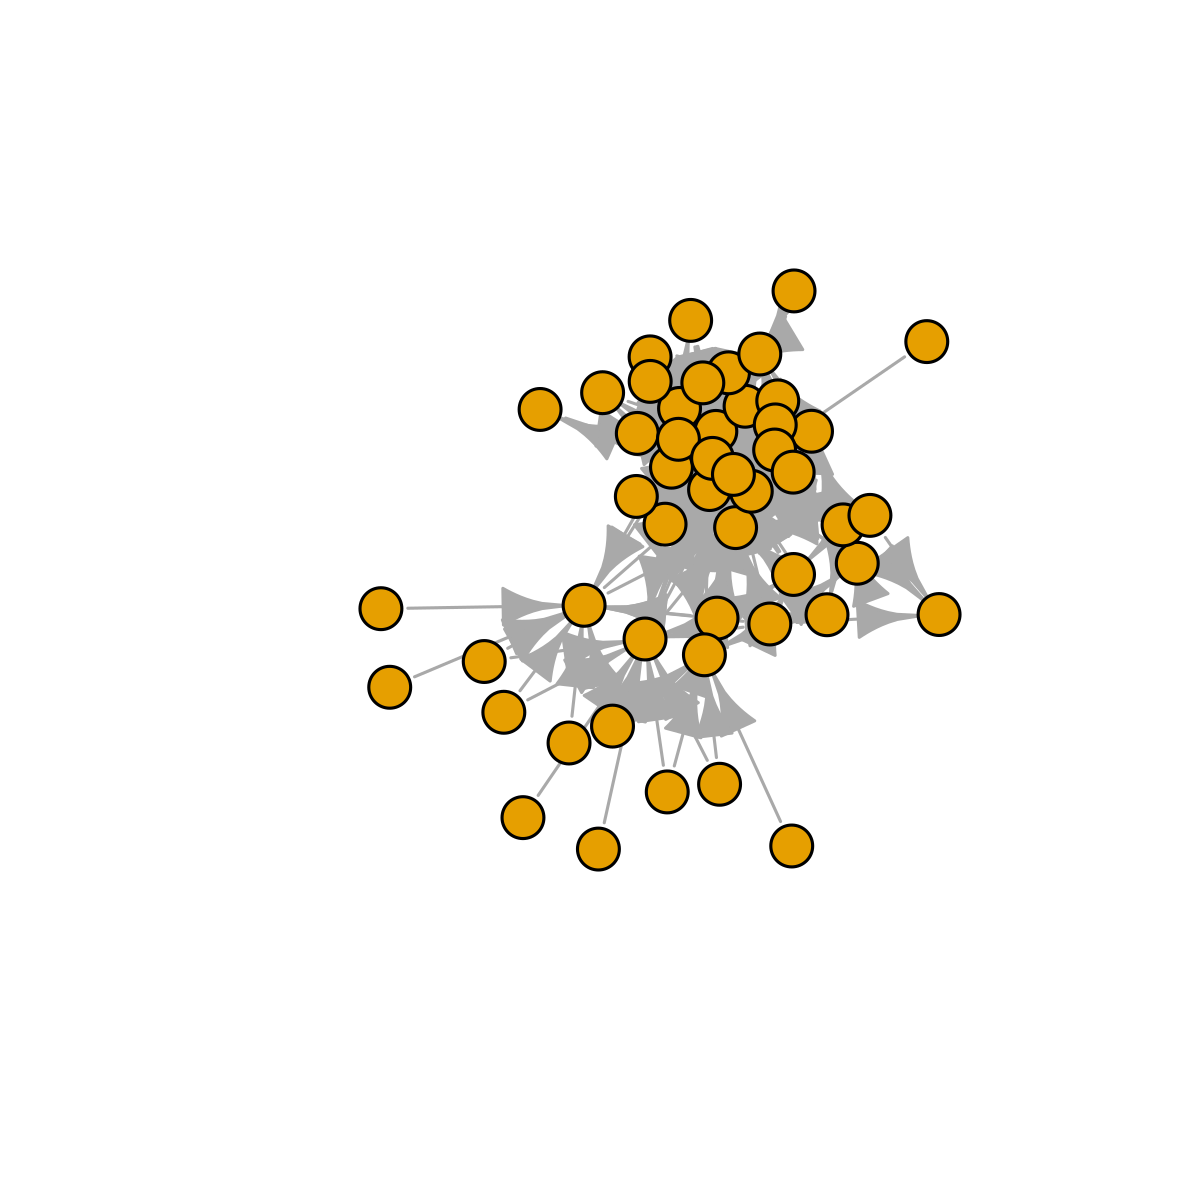
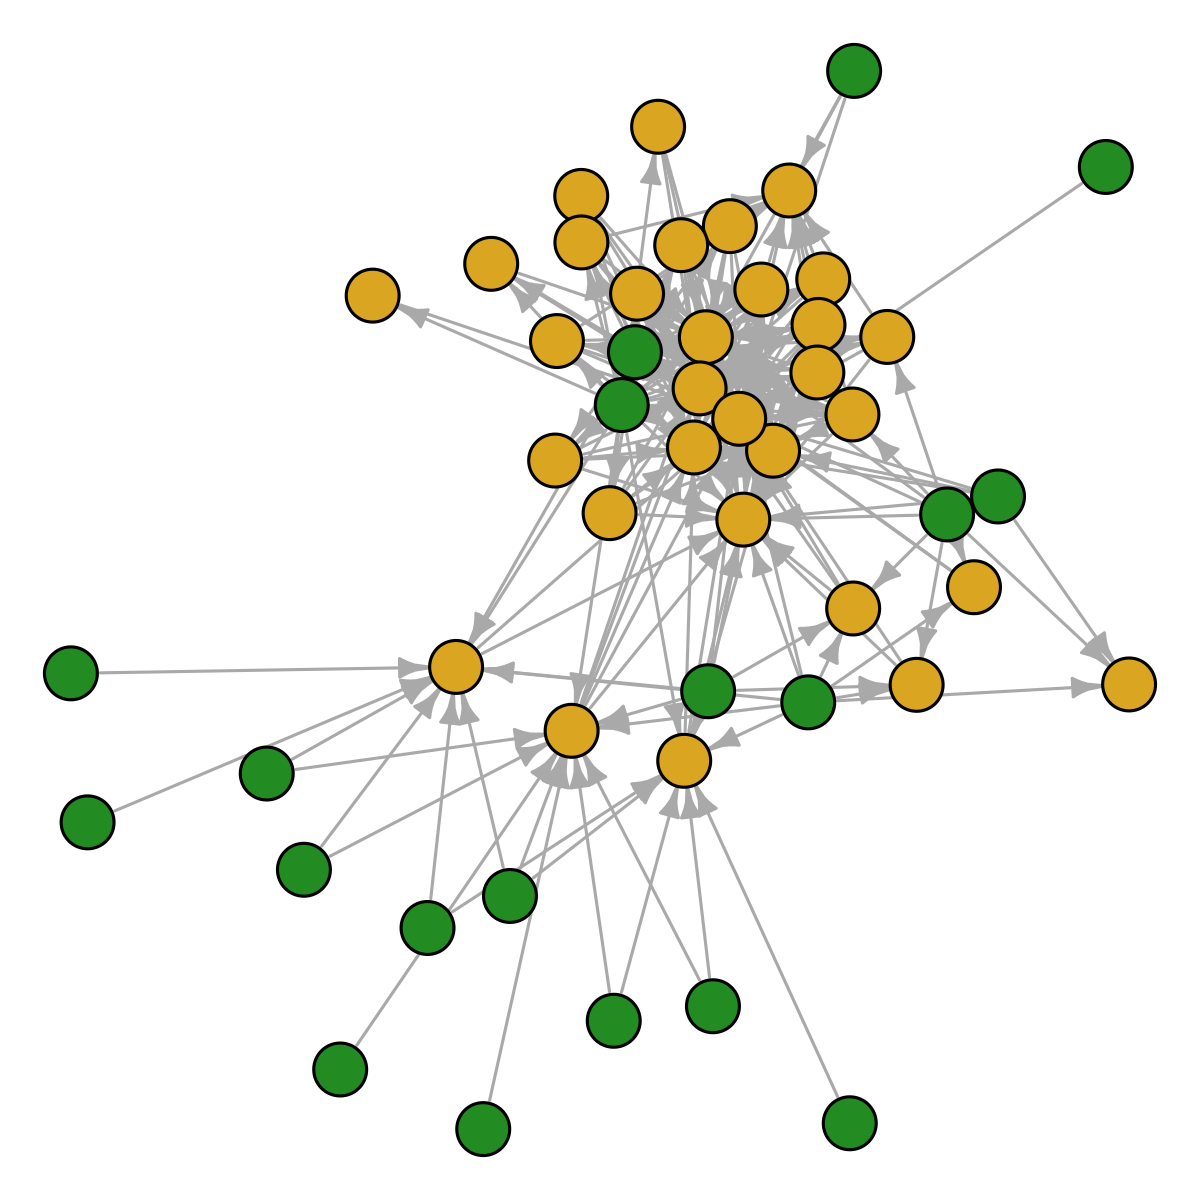
add show_graph

diff --git a/README.md b/README.md
@@ -29,7 +29,7 @@ Loading the required libraries and set a random seed:
 
 ``` r
 library(assembly)
-library(igraph)
+#> Loading required package: igraph
 #> 
 #> Attaching package: 'igraph'
 #> The following objects are masked from 'package:stats':
@@ -38,6 +38,7 @@ library(igraph)
 #> The following object is masked from 'package:base':
 #> 
 #>     union
+library(igraph)
 
 set.seed(1234)
 ```
@@ -61,9 +62,9 @@ To draw a random community, use the function `draw_random_species()`:
 
 ``` r
 sp <- draw_random_species(S, colnames(adirondack))
-sum(colSums(adirondack[sp, sp]) == 0) #20 basal speciesshow_fw(sp, adirondack, title = "Random")
+sum(colSums(adirondack[sp, sp]) == 0)
 #> [1] 20
-plot(graph_from_adjacency_matrix(adirondack[sp, sp]), vertex.label = NA)
+show_graph(sp, adirondack)
 ```
 
 <img src="man/figures/README-random-1.png" width="50%" style="display: block; margin: auto;" />
@@ -170,8 +171,7 @@ show_fw(sp_resource, adirondack, title = "Resource filtering")
 <img src="man/figures/README-resource-1.png" width="50%" style="display: block; margin: auto;" />
 
 ``` r
-plot(graph_from_adjacency_matrix(adirondack[sp_resource, sp_resource]),
-     vertex.label = NA)
+show_graph(sp_resource, adirondack)
 ```
 
 <img src="man/figures/README-resource-2.png" width="50%" style="display: block; margin: auto;" />
@@ -229,7 +229,19 @@ assembly:::.move(sp_resource, adirondack, t = 1)
 
 ## Limiting similarity filtering
 
-**To come**
+**To come**: a description of the procedure.
+
+To impose the limiting similariy filtering, call the function
+`similarity_filtering()`. This function has the argument *t*, which is
+the temperature of the Metropolis-Hastings algorithm, and *max.iter*
+(default = 1,000), which is the maximum number of moves allowed.
+
+``` r
+sp_sim <- similarity_filtering(sp_resource, adirondack, t = 1)
+show_graph(sp_sim, adirondack)
+```
+
+<img src="man/figures/README-limiting-1.png" width="50%" style="display: block; margin: auto;" />
 
 ## Example 1: Trophic levels in random and filtered communities
 

diff --git a/index.md b/index.md
@@ -29,7 +29,7 @@ Loading the required libraries and set a random seed:
 
 ``` r
 library(assembly)
-library(igraph)
+#> Loading required package: igraph
 #> 
 #> Attaching package: 'igraph'
 #> The following objects are masked from 'package:stats':
@@ -38,6 +38,7 @@ library(igraph)
 #> The following object is masked from 'package:base':
 #> 
 #>     union
+library(igraph)
 
 set.seed(1234)
 ```
@@ -61,9 +62,9 @@ To draw a random community, use the function `draw_random_species()`:
 
 ``` r
 sp <- draw_random_species(S, colnames(adirondack))
-sum(colSums(adirondack[sp, sp]) == 0) #20 basal speciesshow_fw(sp, adirondack, title = "Random")
+sum(colSums(adirondack[sp, sp]) == 0)
 #> [1] 20
-plot(graph_from_adjacency_matrix(adirondack[sp, sp]), vertex.label = NA)
+show_graph(sp, adirondack)
 ```
 
 <img src="man/figures/README-random-1.png" width="50%" style="display: block; margin: auto;" />
@@ -170,8 +171,7 @@ show_fw(sp_resource, adirondack, title = "Resource filtering")
 <img src="man/figures/README-resource-1.png" width="50%" style="display: block; margin: auto;" />
 
 ``` r
-plot(graph_from_adjacency_matrix(adirondack[sp_resource, sp_resource]),
-     vertex.label = NA)
+show_graph(sp_resource, adirondack)
 ```
 
 <img src="man/figures/README-resource-2.png" width="50%" style="display: block; margin: auto;" />
@@ -229,7 +229,19 @@ assembly:::.move(sp_resource, adirondack, t = 1)
 
 ## Limiting similarity filtering
 
-**To come**
+**To come**: a description of the procedure.
+
+To impose the limiting similariy filtering, call the function
+`similarity_filtering()`. This function has the argument *t*, which is
+the temperature of the Metropolis-Hastings algorithm, and *max.iter*
+(default = 1,000), which is the maximum number of moves allowed.
+
+``` r
+sp_sim <- similarity_filtering(sp_resource, adirondack, t = 1)
+show_graph(sp_sim, adirondack)
+```
+
+<img src="man/figures/README-limiting-1.png" width="50%" style="display: block; margin: auto;" />
 
 ## Example 1: Trophic levels in random and filtered communities
 
